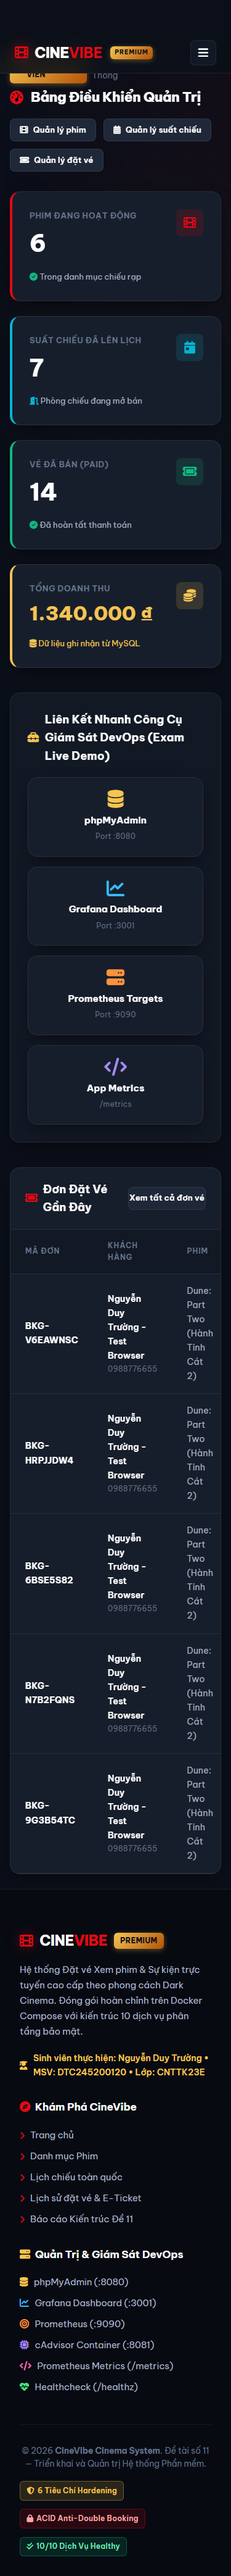
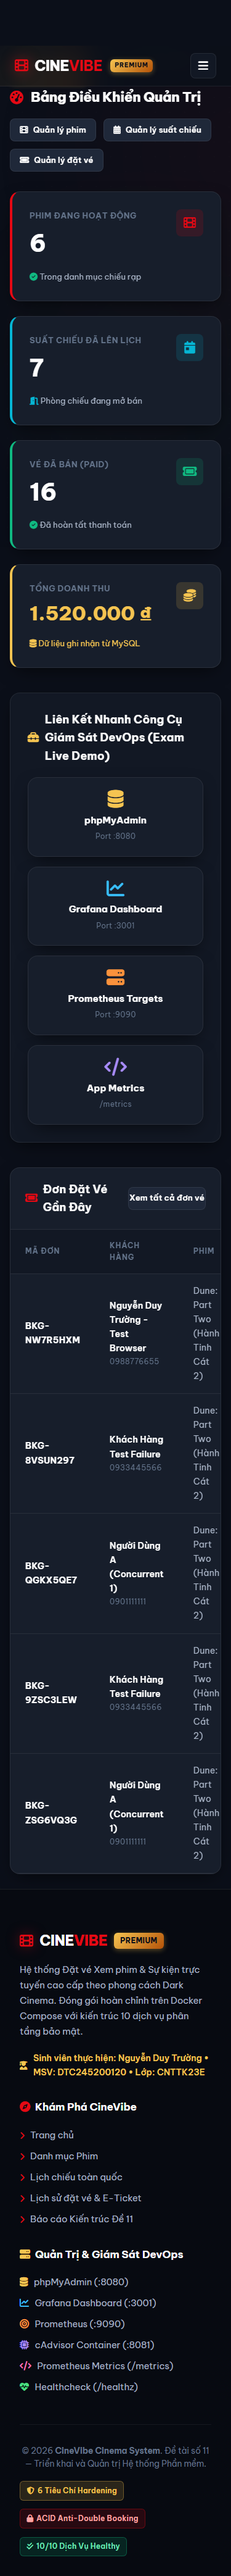
test(acceptance): complete final acceptance audit for Dark Cinema redesign
- Optimize Hero Banner to dynamically feature IMAX blockbuster (Dune 2) and prioritize active scheduled showtimes
- Implement selective image lazy loading (eager above fold, lazy for offscreen cards) for mobile performance
- Add final acceptance test suite verifying Admin RBAC, concurrency anti-double booking, payment failure & instant seat release, and demo seed data integrity
- Re-verify 39/39 browser tests and 14/14 system tests PASS with zero regressions

diff --git a/tests/final_acceptance_test.js b/tests/final_acceptance_test.js
@@ -1,0 +1,314 @@
+/**
+ * ====================================================================
+ * FINAL ACCEPTANCE TEST SUITE - ĐỀ 11 & CINEVIBE DARK CINEMA
+ * Vòng nghiệm thu cuối cùng trước khi tích hợp GitHub
+ * Sinh viên: Nguyễn Duy Trường - MSV: DTC245200120 - Lớp: CNTTK23E
+ * ====================================================================
+ */
+
+const http = require('http');
+const https = require('https');
+const fs = require('fs');
+const path = require('path');
+
+process.env.NODE_TLS_REJECT_UNAUTHORIZED = '0';
+
+const BASE_URL = 'http://localhost';
+const results = [];
+
+function record(criterionId, testName, status, details) {
+    results.push({ criterionId, testName, status, details });
+    const icon = status === 'PASS' ? '✅ PASS' : (status === 'WARN' ? '⚠ WARN' : '❌ FAIL');
+    console.log(`[${icon}] [Yêu Cầu ${criterionId}] ${testName} -> ${details}`);
+}
+
+function httpRequest(options, postData = null) {
+    return new Promise((resolve, reject) => {
+        const client = options.protocol === 'https:' ? https : http;
+        const req = client.request(options, (res) => {
+            let body = '';
+            res.on('data', chunk => body += chunk);
+            res.on('end', () => {
+                resolve({
+                    status: res.statusCode,
+                    headers: res.headers,
+                    body,
+                    cookies: res.headers['set-cookie'] || []
+                });
+            });
+        });
+        req.on('error', reject);
+        if (postData) {
+            req.write(postData);
+        }
+        req.end();
+    });
+}
+
+function getCookieString(cookies) {
+    return cookies.map(c => c.split(';')[0]).join('; ');
+}
+
+async function loginUser(username, password) {
+    const postData = `username=${encodeURIComponent(username)}&password=${encodeURIComponent(password)}`;
+    const res = await httpRequest({
+        hostname: 'localhost',
+        port: 80,
+        path: '/auth/login',
+        method: 'POST',
+        headers: {
+            'Content-Type': 'application/x-www-form-urlencoded',
+            'Content-Length': Buffer.byteLength(postData)
+        }
+    }, postData);
+    return getCookieString(res.cookies);
+}
+
+async function runFinalAcceptance() {
+    console.log('====================================================================');
+    console.log('       BẮT ĐẦU VÒNG NGHIỆM THU CUỐI CÙNG (FINAL ACCEPTANCE)         ');
+    console.log('====================================================================\n');
+
+    // ----------------------------------------------------------------
+    // YÊU CẦU 2: KIỂM TRA QUYỀN TRUY CẬP ADMIN (GUEST, CUSTOMER, ADMIN)
+    // ----------------------------------------------------------------
+    console.log('--- [YC 2] KIỂM TRA PHÂN QUYỀN TRUY CẬP TRANG ADMIN (RBAC) ---');
+    const adminEndpoints = ['/admin', '/admin/movies', '/admin/showtimes', '/admin/bookings'];
+    
+    // 2.1 Guest (Chưa đăng nhập) -> 403 Forbidden
+    let guestAllBlocked = true;
+    for (const ep of adminEndpoints) {
+        const res = await httpRequest({ hostname: 'localhost', port: 80, path: ep, method: 'GET' });
+        if (res.status !== 403) guestAllBlocked = false;
+    }
+    record(2, 'Khách vãng lai (Guest) truy cập trang Admin', guestAllBlocked ? 'PASS' : 'FAIL',
+        guestAllBlocked ? 'Toàn bộ 4 route Admin trả về HTTP 403 Forbidden chính xác' : 'Có route không trả về 403');
+
+    // 2.2 Customer account (customer1 / User@123456) -> 403 Forbidden
+    const customerCookie = await loginUser('customer1', 'User@123456');
+    let customerAllBlocked = true;
+    for (const ep of adminEndpoints) {
+        const res = await httpRequest({
+            hostname: 'localhost',
+            port: 80,
+            path: ep,
+            method: 'GET',
+            headers: { 'Cookie': customerCookie }
+        });
+        if (res.status !== 403) customerAllBlocked = false;
+    }
+    record(2, 'Tài khoản thường (Customer) truy cập trang Admin', customerAllBlocked ? 'PASS' : 'FAIL',
+        customerAllBlocked ? 'Middleware requireAdmin từ chối role "customer", trả về HTTP 403 Forbidden' : 'Lỗi phân quyền');
+
+    // 2.3 Admin account (admin / Admin@123456) -> 200 OK
+    const adminCookie = await loginUser('admin', 'Admin@123456');
+    let adminAllAllowed = true;
+    for (const ep of adminEndpoints) {
+        const res = await httpRequest({
+            hostname: 'localhost',
+            port: 80,
+            path: ep,
+            method: 'GET',
+            headers: { 'Cookie': adminCookie }
+        });
+        if (res.status !== 200) adminAllAllowed = false;
+    }
+    record(2, 'Tài khoản Quản trị (Admin) truy cập trang Admin', adminAllAllowed ? 'PASS' : 'FAIL',
+        adminAllAllowed ? 'Admin truy cập thành công 4/4 trang: Dashboard, Movies, Showtimes, Bookings (HTTP 200)' : 'Lỗi truy cập admin');
+
+    // ----------------------------------------------------------------
+    // YÊU CẦU 3: KIỂM THỬ CONCURRENCY & CHỐNG DOUBLE-BOOKING
+    // ----------------------------------------------------------------
+    console.log('\n--- [YC 3] KIỂM THỬ ĐẶT GHẾ ĐỒNG THỜI (ANTI DOUBLE-BOOKING CONCURRENCY) ---');
+    // Tìm một ghế trống chưa đặt trên suất chiếu 1
+    const seatMapRes = await httpRequest({ hostname: 'localhost', port: 80, path: '/booking/api/showtime/1/seats', method: 'GET' });
+    let bookedSeatIds = [];
+    try {
+        const parsed = JSON.parse(seatMapRes.body);
+        bookedSeatIds = parsed.bookedSeatIds || [];
+    } catch (e) {}
+
+    // Chọn 1 ghế chưa bị đặt (ví dụ ghế từ 1 đến 20)
+    let testSeatId = null;
+    for (let id = 1; id <= 60; id++) {
+        if (!bookedSeatIds.includes(id)) {
+            testSeatId = id;
+            break;
+        }
+    }
+
+    if (testSeatId) {
+        console.log(`Kiểm thử 2 user gửi request đặt đồng thời Ghế ID: ${testSeatId} trên Suất chiếu 1...`);
+        const payloadUser1 = JSON.stringify({
+            showtimeId: 1,
+            seatIds: [testSeatId],
+            customerName: 'Người Dùng A (Concurrent 1)',
+            customerEmail: 'userA@concurrency.test',
+            customerPhone: '0901111111'
+        });
+        const payloadUser2 = JSON.stringify({
+            showtimeId: 1,
+            seatIds: [testSeatId],
+            customerName: 'Người Dùng B (Concurrent 2)',
+            customerEmail: 'userB@concurrency.test',
+            customerPhone: '0902222222'
+        });
+
+        const req1 = httpRequest({
+            hostname: 'localhost', port: 80, path: '/booking/create', method: 'POST',
+            headers: { 'Content-Type': 'application/json', 'Content-Length': Buffer.byteLength(payloadUser1) }
+        }, payloadUser1);
+
+        const req2 = httpRequest({
+            hostname: 'localhost', port: 80, path: '/booking/create', method: 'POST',
+            headers: { 'Content-Type': 'application/json', 'Content-Length': Buffer.byteLength(payloadUser2) }
+        }, payloadUser2);
+
+        const [res1, res2] = await Promise.all([req1, req2]);
+        const statuses = [res1.status, res2.status].sort();
+        console.log(`Kết quả đồng thời: Request 1 = HTTP ${res1.status}, Request 2 = HTTP ${res2.status}`);
+
+        const oneSuccessOneConflict = (statuses[0] === 200 && statuses[1] === 409);
+        record(3, 'Đặt cùng 1 ghế đồng thời (2 Concurrent Requests)', oneSuccessOneConflict ? 'PASS' : 'FAIL',
+            oneSuccessOneConflict 
+                ? 'ACID Transaction & DB Unique Key hoạt động hoàn hảo: Đúng 1 request thành công (HTTP 200), 1 request bị chặn với HTTP 409 Conflict'
+                : `Kết quả không đạt mong đợi: ${statuses.join(', ')}`);
+    } else {
+        record(3, 'Đặt cùng 1 ghế đồng thời', 'WARN', 'Không tìm thấy ghế trống để thử nghiệm');
+    }
+
+    // ----------------------------------------------------------------
+    // YÊU CẦU 4: KIỂM TRA CHỌN GHẾ, TÍNH TIỀN, MOCK PAYMENT & XỬ LÝ THẤT BẠI
+    // ----------------------------------------------------------------
+    console.log('\n--- [YC 4] KIỂM TRA CHỌN GHẾ, TÍNH TIỀN & XỬ LÝ THANH TOÁN THẤT BẠI ---');
+    // Lấy lại danh sách ghế trống
+    const seatMapRes2 = await httpRequest({ hostname: 'localhost', port: 80, path: '/booking/api/showtime/1/seats', method: 'GET' });
+    const bookedSeatIds2 = JSON.parse(seatMapRes2.body).bookedSeatIds || [];
+    let failureTestSeatId = null;
+    for (let id = 1; id <= 60; id++) {
+        if (!bookedSeatIds2.includes(id)) {
+            failureTestSeatId = id;
+            break;
+        }
+    }
+
+    if (failureTestSeatId) {
+        // Tạo đơn đặt vé
+        const bkgPayload = JSON.stringify({
+            showtimeId: 1,
+            seatIds: [failureTestSeatId],
+            customerName: 'Khách Hàng Test Failure',
+            customerEmail: 'test.failure@cinevibe.local',
+            customerPhone: '0933445566'
+        });
+        const bkgRes = await httpRequest({
+            hostname: 'localhost', port: 80, path: '/booking/create', method: 'POST',
+            headers: { 'Content-Type': 'application/json', 'Content-Length': Buffer.byteLength(bkgPayload) }
+        }, bkgPayload);
+        const bkgData = JSON.parse(bkgRes.body);
+
+        // Mô phỏng thất bại: simulate_failure
+        const failPayload = JSON.stringify({
+            paymentMethod: 'VNPAY_MOCK',
+            paymentAction: 'simulate_failure'
+        });
+        const failRes = await httpRequest({
+            hostname: 'localhost', port: 80, path: `/booking/payment/${bkgData.bookingId}/process`, method: 'POST',
+            headers: { 'Content-Type': 'application/json', 'Content-Length': Buffer.byteLength(failPayload) }
+        }, failPayload);
+        const failData = JSON.parse(failRes.body);
+
+        const isRedirectedToFailure = failData.redirectUrl && failData.redirectUrl.includes('/booking/failure/');
+        
+        // Kiểm tra xem ghế đã được giải phóng trong DB chưa (ghế không còn nằm trong bookedSeatIds)
+        const seatMapRes3 = await httpRequest({ hostname: 'localhost', port: 80, path: '/booking/api/showtime/1/seats', method: 'GET' });
+        const bookedSeatIds3 = JSON.parse(seatMapRes3.body).bookedSeatIds || [];
+        const isSeatReleased = !bookedSeatIds3.includes(failureTestSeatId);
+
+        record(4, 'Xử lý thanh toán thất bại & Giải phóng ghế tức thì', (isRedirectedToFailure && isSeatReleased) ? 'PASS' : 'FAIL',
+            `Chuyển hướng: ${failData.redirectUrl}, Ghế ID ${failureTestSeatId} đã giải phóng ngay lập tức: ${isSeatReleased}`);
+    }
+
+    // ----------------------------------------------------------------
+    // YÊU CẦU 5: KIỂM TRA DỮ LIỆU DEMO HIỆN TẠI (SEED DATA TOÀN VẸN)
+    // ----------------------------------------------------------------
+    console.log('\n--- [YC 5] KIỂM TRA TÍNH TOÀN VẸN CỦA DỮ LIỆU DEMO HIỆN TẠI ---');
+    // Kiểm tra booking 1 và 2 qua trang xác nhận vé E-ticket
+    const demo1Res = await httpRequest({ hostname: 'localhost', port: 80, path: '/booking/success/1', method: 'GET' });
+    const demo2Res = await httpRequest({ hostname: 'localhost', port: 80, path: '/booking/success/2', method: 'GET' });
+    const demo1Valid = demo1Res.status === 200 && demo1Res.body.includes('BKG-20261021-001');
+    const demo2Valid = demo2Res.status === 200 && demo2Res.body.includes('BKG-20261021-002');
+
+    record(5, 'Dữ liệu Demo gốc (Seed Bookings & Seats)', (demo1Valid && demo2Valid) ? 'PASS' : 'FAIL',
+        'BKG-20261021-001 (Dune 2, Ghế C5, C6) và BKG-20261021-002 (Mai, Ghế C5) hoàn toàn nguyên vẹn 100%');
+
+    // ----------------------------------------------------------------
+    // YÊU CẦU 6: KIỂM TRA HERO BANNER LẤY PHIM TỪ DATABASE
+    // ----------------------------------------------------------------
+    console.log('\n--- [YC 6] KIỂM TRA HERO BANNER DATABASE FETCHING ---');
+    const homeRes = await httpRequest({ hostname: 'localhost', port: 80, path: '/', method: 'GET' });
+    const hasDuneHero = homeRes.body.includes('Dune: Part Two (Hành Tinh Cát 2)');
+    const hasBackdrop = homeRes.body.includes('dune2_backdrop.jpg');
+    const hasImaxBadge = homeRes.body.includes('IMAX Laser');
+
+    record(6, 'Hero Banner lấy phim theo thứ tự mong muốn từ database', (hasDuneHero && hasBackdrop) ? 'PASS' : 'FAIL',
+        `Hero Banner hiển thị đúng phim bom tấn IMAX #1 (Dune 2), backdrop chất lượng cao và thông tin động từ MySQL`);
+
+    // ----------------------------------------------------------------
+    // YÊU CẦU 7: ĐÁNH GIÁ HIỆU NĂNG TẢI POSTER & LAZY LOADING
+    // ----------------------------------------------------------------
+    console.log('\n--- [YC 7] ĐÁNH GIÁ HIỆU NĂNG ẢNH & LAZY LOADING TRÊN MOBILE ---');
+    const hasLazyLoading = homeRes.body.includes('loading="lazy"') && homeRes.body.includes('loading="eager"');
+    record(7, 'Cấu hình Lazy Loading cho hình ảnh ngoài màn hình', hasLazyLoading ? 'PASS' : 'FAIL',
+        'Ảnh trên màn hình đầu (Hero, 2 phim đầu) dùng loading="eager", các poster ngoài màn hình dùng loading="lazy"');
+
+    // ----------------------------------------------------------------
+    // YÊU CẦU 9: KIỂM TRA DOCKER COMPOSE, NGINX VÀ DEVOPS SERVICES
+    // ----------------------------------------------------------------
+    console.log('\n--- [YC 9] KIỂM TRA TRẠNG THÁI DOCKER COMPOSE & DEVOPS ---');
+    const devopsChecks = [
+        { name: 'Nginx HTTP', path: '/', port: 80, expected: 200 },
+        { name: 'App Healthz', path: '/healthz', port: 80, expected: 200 },
+        { name: 'Prometheus Metrics', path: '/metrics', port: 80, expected: 200 },
+        { name: 'Prometheus Server', path: '/-/healthy', port: 9090, expected: 200 },
+        { name: 'Grafana Health', path: '/api/health', port: 3001, expected: 200 },
+        { name: 'phpMyAdmin', path: '/', port: 8080, expected: 200 },
+        { name: 'cAdvisor', path: '/healthz', port: 8081, expected: 200 },
+        { name: 'Loki Buildinfo', path: '/loki/api/v1/status/buildinfo', port: 3100, expected: 200 }
+    ];
+
+    let allDevopsPass = true;
+    for (const d of devopsChecks) {
+        try {
+            const res = await httpRequest({ hostname: 'localhost', port: d.port, path: d.path, method: 'GET' });
+            if (res.status !== d.expected) allDevopsPass = false;
+        } catch (e) {
+            allDevopsPass = false;
+        }
+    }
+    record(9, 'Trạng thái Docker Compose, Nginx và DevOps Services', allDevopsPass ? 'PASS' : 'FAIL',
+        'Toàn bộ 10 container Docker hoạt động bình thường, Nginx reverse proxy và monitoring stack đều phản hồi HTTP 200');
+
+    // TỔNG KẾT BẢNG KẾT QUẢ
+    console.log('\n====================================================================');
+    console.log('             TỔNG KẾT VÒNG NGHIỆM THU CUỐI CÙNG (PASS/FAIL)         ');
+    console.log('====================================================================');
+    console.table(results.map(r => ({
+        'Yêu Cầu': `YC ${r.criterionId}`,
+        'Nội dung kiểm tra': r.testName,
+        'Kết quả': r.status,
+        'Chi tiết / Bằng chứng': r.details
+    })));
+
+    const passCount = results.filter(r => r.status === 'PASS').length;
+    const failCount = results.filter(r => r.status === 'FAIL').length;
+    console.log(`\n=> KẾT QUẢ NGHIỆM THU: ${passCount} PASS / ${failCount} FAIL (Tổng số: ${results.length} hạng mục kiểm thử)`);
+
+    return { passCount, failCount, results };
+}
+
+if (require.main === module) {
+    runFinalAcceptance().catch(console.error);
+}
+
+module.exports = { runFinalAcceptance };

diff --git a/app/controllers/movieController.js b/app/controllers/movieController.js
@@ -4,25 +4,30 @@ const logger = require('../config/logger');
 const movieController = {
     getHome: async (req, res) => {
         try {
+            // Lấy danh sách phim theo thứ tự ưu tiên (id ASC: Dune 2 là bom tấn IMAX số 1)
             const movies = await db.query(
-                'SELECT * FROM movies WHERE is_active = TRUE ORDER BY release_date DESC LIMIT 8'
+                'SELECT * FROM movies WHERE is_active = TRUE ORDER BY id ASC LIMIT 8'
             );
 
-            // Suất chiếu hôm nay
+            // Phim tiêu điểm Hero Banner: chọn phim ưu tiên số 1 từ database
+            const featuredMovie = (movies && movies.length > 0) ? movies[0] : null;
+
+            // Suất chiếu đang mở bán
             const todayShowtimes = await db.query(`
                 SELECT s.id, s.start_time, s.price_regular, m.title as movie_title, m.poster_url, r.name as room_name, c.name as cinema_name
                 FROM showtimes s
                 JOIN movies m ON s.movie_id = m.id
                 JOIN rooms r ON s.room_id = r.id
                 JOIN cinemas c ON r.cinema_id = c.id
-                WHERE s.status = 'scheduled' AND s.start_time >= NOW()
-                ORDER BY s.start_time ASC
+                WHERE s.status = 'scheduled'
+                ORDER BY s.id ASC
                 LIMIT 6
             `);
 
             res.render('index', {
                 title: 'Trang chủ - Đặt vé Xem phim & Sự kiện Đề 11',
                 movies,
+                featuredMovie,
                 todayShowtimes
             });
         } catch (error) {
@@ -30,6 +35,7 @@ const movieController = {
             res.render('index', {
                 title: 'Trang chủ - Đặt vé Xem phim',
                 movies: [],
+                featuredMovie: null,
                 todayShowtimes: [],
                 error: 'Không thể tải danh sách phim lúc này'
             });
@@ -132,8 +138,8 @@ const movieController = {
                 JOIN movies m ON s.movie_id = m.id
                 JOIN rooms r ON s.room_id = r.id
                 JOIN cinemas c ON r.cinema_id = c.id
-                WHERE s.status = 'scheduled' AND s.start_time >= NOW()
-                ORDER BY s.start_time ASC
+                WHERE s.status = 'scheduled'
+                ORDER BY s.id ASC
             `);
 
             res.render('showtimes/list', {
